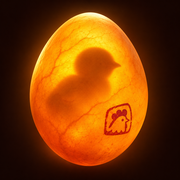
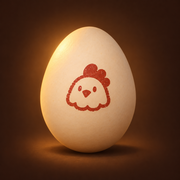
편안한 분위기로 조정: 따뜻한 램프, 알 하나, 문구 정리
- 검란(핏줄, 붉은 투과광, 속 그림자) 연출을 걷어내고 같은 구도의 따뜻한 조명 계란판으로 교체
- 방 어둠과 램프 빛을 부드러운 꿀빛으로, 부화 과정의 속 그림자 제거
- 작품을 '첫 작품' 알 하나로 줄이고 아직 밝히지 않은 작품 종류(secret) 추가
- 소개 문구에서 '혼자', '1인' 표현 제거 (한국어, 영어)
- 문의 이메일 글자 크기 축소, 로고 아이콘을 도장 찍힌 알로 교체
- 데이터 JSON 은 매번 재검증해 갱신이 바로 보이게 함

diff --git a/index.html b/index.html
@@ -4,13 +4,13 @@
 <meta charset="utf-8">
 <meta name="viewport" content="width=device-width,initial-scale=1">
 <title>꼰닭 스튜디오 | ggondark studio</title>
-<meta name="description" content="혼자 만드는 앱과 게임, 꼰닭 스튜디오(ggondark studio)의 공식 홈페이지." data-i18n-attr="content:meta.description">
+<meta name="description" content="꼰닭 스튜디오(ggondark studio)의 공식 홈페이지. 즐겁게 만드는 앱과 게임." data-i18n-attr="content:meta.description">
 <meta name="theme-color" content="#160f0a">
 <link rel="canonical" href="https://ggondark2.github.io/">
 <meta property="og:type" content="website">
 <meta property="og:site_name" content="ggondark studio">
 <meta property="og:title" content="꼰닭 스튜디오 | ggondark studio">
-<meta property="og:description" content="혼자 만드는 앱과 게임">
+<meta property="og:description" content="즐겁게 만드는 앱과 게임">
 <meta property="og:url" content="https://ggondark2.github.io/">
 <meta property="og:image" content="https://ggondark2.github.io/assets/img/og.jpg">
 <meta name="twitter:card" content="summary_large_image">
@@ -20,7 +20,7 @@
 <link rel="preconnect" href="https://fonts.gstatic.com" crossorigin>
 <link href="https://fonts.googleapis.com/css2?family=Do+Hyeon&family=Nanum+Gothic+Coding:wght@700&display=swap" rel="stylesheet">
 <link rel="stylesheet" href="https://cdn.jsdelivr.net/npm/pretendard@1.3.9/dist/web/static/pretendard.min.css">
-<link rel="stylesheet" href="assets/css/site.css?v=1104m">
+<link rel="stylesheet" href="assets/css/site.css?v=1104q">
 <script type="application/ld+json">{"@context":"https://schema.org","@type":"Organization","name":"꼰닭 스튜디오","alternateName":"ggondark studio","url":"https://ggondark2.github.io/","email":"ggondark2@gmail.com","logo":"https://ggondark2.github.io/assets/img/icon-512.png"}</script>
 </head>
 <body>
@@ -30,6 +30,7 @@
   <symbol id="i-app" viewBox="0 0 100 100"><path d="M32 8h36c6 0 10 4 10 10v64c0 6-4 10-10 10H32c-6 0-10-4-10-10V18c0-6 4-10 10-10zm-2 14v54h40V22zm14 60a6 6 0 1012 0 6 6 0 00-12 0zM36 30h12v12H36zm16 0h12v12H52zM36 46h12v12H36z"/></symbol>
   <symbol id="i-idea" viewBox="0 0 100 100"><path d="M50 10c18 0 30 13 30 30 0 11-6 19-12 25-3 3-4 6-4 9v4H36v-4c0-3-1-6-4-9-6-6-12-14-12-25 0-17 12-30 30-30zM38 84h24v6H38z"/></symbol>
   <symbol id="i-egg" viewBox="0 0 12 15"><path d="M6 0C2.7 0 0 4.6 0 8.7 0 12.2 2.7 15 6 15s6-2.8 6-6.3C12 4.6 9.3 0 6 0z"/></symbol>
+  <symbol id="i-chick" viewBox="0 0 100 100"><path d="M50 20c12 0 20 8 20 18 0 4-1 7-3 10 9 4 15 13 15 23 0 13-14 21-32 21S18 84 18 71c0-10 6-19 15-23-2-3-3-6-3-10 0-10 8-18 20-18zm-6 14a3 3 0 100 6 3 3 0 000-6zm14 4l10 3-10 3z"/></symbol>
   <symbol id="i-arrow" viewBox="0 0 24 24"><path d="M5 12h13M13 6l6 6-6 6" fill="none" stroke="currentColor" stroke-width="2.4" stroke-linecap="round" stroke-linejoin="round"/></symbol>
   <symbol id="i-copy" viewBox="0 0 24 24"><g fill="none" stroke="currentColor" stroke-width="2.2" stroke-linejoin="round"><rect x="8" y="8" width="12" height="12" rx="2"/><path d="M16 8V5a1 1 0 00-1-1H5a1 1 0 00-1 1v10a1 1 0 001 1h3"/></g></symbol>
   <symbol id="i-check" viewBox="0 0 24 24"><path d="M5 12.5l4.5 4.5L19 7" fill="none" stroke="currentColor" stroke-width="2.6" stroke-linecap="round" stroke-linejoin="round"/></symbol>
@@ -71,7 +72,7 @@
         <span class="t" data-i18n="hero.title">꼰닭 스튜디오</span>
         <span class="stamp hero-stamp" id="hero-stamp" aria-hidden="true"></span>
       </h1>
-      <p class="hero-lead" data-i18n="hero.lead">혼자 만드는 앱과 게임</p>
+      <p class="hero-lead" data-i18n="hero.lead">즐겁게 만드는 앱과 게임</p>
       <div class="hero-actions">
         <a class="btn-amber" href="#contact"><span data-i18n="hero.cta">문의하기</span><svg class="ico"><use href="#i-arrow"/></svg></a>
         <span class="temp"><svg class="mini-egg"><use href="#i-egg"/></svg><span data-i18n="hero.status">첫 작품 부화 중</span> <b>37.5°C</b></span>
@@ -86,10 +87,10 @@
         <h2 id="studio-title" class="sr-only" data-i18n="studio.title">스튜디오</h2>
         <ol class="stages">
           <li class="stage" data-stage="0"><svg class="ico"><use href="#i-idea"/></svg><span data-i18n="studio.s1">아이디어를 품고</span></li>
-          <li class="stage" data-stage="1"><svg class="ico"><use href="#i-game"/></svg><span data-i18n="studio.s2">혼자 끝까지 키워서</span></li>
+          <li class="stage" data-stage="1"><svg class="ico"><use href="#i-game"/></svg><span data-i18n="studio.s2">정성껏 키워서</span></li>
           <li class="stage" data-stage="2"><svg class="ico"><use href="#i-app"/></svg><span data-i18n="studio.s3">세상에 내놓습니다</span></li>
         </ol>
-        <p class="studio-note" data-i18n="studio.note">꼰닭 스튜디오는 앱과 게임을 기획부터 출시까지 혼자 만드는 1인 개발 스튜디오입니다.</p>
+        <p class="studio-note" data-i18n="studio.note">꼰닭 스튜디오는 앱과 게임을 기획부터 출시까지 직접 만드는 개발 스튜디오입니다.</p>
       </div>
       <div class="hatch-stage" id="hatch-stage" aria-hidden="true">
         <canvas class="fx" id="fx"></canvas>
@@ -98,7 +99,6 @@
           <div class="l-egg" id="h-egg">
             <img src="assets/img/egg-whole.webp" alt="" width="353" height="457">
             <div class="candle"></div>
-            <div class="embryo"></div>
             <svg class="crack" viewBox="0 0 353 457"><path id="h-crack" d="M14 236 L52 214 L78 248 L112 210 L140 246 L170 206 L198 244 L228 208 L256 246 L290 212 L340 232"/></svg>
           </div>
           <img class="l-bottom" id="h-bottom" src="assets/img/shell-bottom.webp" alt="" width="362" height="293">
@@ -139,11 +139,11 @@
 
 <script src="https://cdnjs.cloudflare.com/ajax/libs/gsap/3.12.5/gsap.min.js"></script>
 <script src="https://cdnjs.cloudflare.com/ajax/libs/gsap/3.12.5/ScrollTrigger.min.js"></script>
-<script src="assets/js/config.js?v=1104m"></script>
-<script src="assets/js/i18n.js?v=1104m"></script>
-<script src="assets/js/hero.js?v=1104m"></script>
-<script src="assets/js/hatch.js?v=1104m"></script>
-<script src="assets/js/works.js?v=1104m"></script>
-<script src="assets/js/main.js?v=1104m"></script>
+<script src="assets/js/config.js?v=1104q"></script>
+<script src="assets/js/i18n.js?v=1104q"></script>
+<script src="assets/js/hero.js?v=1104q"></script>
+<script src="assets/js/hatch.js?v=1104q"></script>
+<script src="assets/js/works.js?v=1104q"></script>
+<script src="assets/js/main.js?v=1104q"></script>
 </body>
 </html>

diff --git a/assets/css/site.css b/assets/css/site.css
@@ -60,15 +60,13 @@ img{display:block;max-width:100%}
   font:700 clamp(6px,.62vw,10px)/1 var(--f-stamp);letter-spacing:.06em;color:var(--stamp);mix-blend-mode:multiply;opacity:calc(.82 - var(--lit)*.55);filter:url(#ink)}
 .spot.key{cursor:pointer;transform-origin:50% 70%}
 .spot .shell{position:absolute;inset:0;border-radius:50%;background:var(--plate) var(--bg-pos)/var(--bg-size) no-repeat}
-.spot .shell.lit{background-image:var(--lit-plate);opacity:var(--lit);box-shadow:0 0 calc(var(--lit)*60px) calc(var(--lit)*10px) rgba(255,140,40,.45)}
-.spot .inside{position:absolute;inset:25%;opacity:calc(var(--lit)*1.2 - .25);filter:blur(calc(2px + (1 - var(--lit))*5px));mix-blend-mode:multiply}
-.spot .inside svg{width:100%;height:100%;fill:#5a1d05}
+.spot .shell.lit{background-image:var(--lit-plate);opacity:var(--lit);box-shadow:0 0 calc(var(--lit)*50px) calc(var(--lit)*6px) rgba(255,214,150,.35)}
 .spot .crack{position:absolute;inset:0;width:100%;height:100%;pointer-events:none;overflow:visible}
 .spot .crack path{fill:none;stroke:#3a2410;stroke-width:2.4;stroke-linecap:round;stroke-linejoin:round}
 .dark{position:absolute;inset:0;pointer-events:none;z-index:5;
-  background:radial-gradient(circle at var(--lx,70%) var(--ly,50%),rgba(22,15,10,0) 0,rgba(22,15,10,0) var(--r0,0px),rgba(22,15,10,.9) var(--r1,20px))}
+  background:radial-gradient(circle at var(--lx,70%) var(--ly,50%),rgba(30,20,12,0) 0,rgba(30,20,12,0) var(--r0,0px),rgba(30,20,12,.66) var(--r1,20px))}
 .glow{position:absolute;inset:0;pointer-events:none;z-index:6;mix-blend-mode:screen;
-  background:radial-gradient(circle at var(--lx,70%) var(--ly,50%),rgba(255,170,70,calc(.32*var(--pw,0))) 0,rgba(255,120,30,calc(.08*var(--pw,0))) 220px,transparent 380px)}
+  background:radial-gradient(circle at var(--lx,70%) var(--ly,50%),rgba(255,222,160,calc(.26*var(--pw,0))) 0,rgba(255,200,130,calc(.07*var(--pw,0))) 240px,transparent 400px)}
 .lamp-ring{position:absolute;left:0;top:0;width:150px;height:150px;margin:-75px 0 0 -75px;border-radius:50%;z-index:8;pointer-events:none;opacity:0;
   border:2px solid rgba(255,190,110,.55);box-shadow:0 0 0 7px rgba(255,190,110,.08)}
 .hero.lamp-cursor .lamp-ring{opacity:1}
@@ -111,9 +109,8 @@ img{display:block;max-width:100%}
 .nest > img{height:auto}
 .l-egg{bottom:0;height:100%;transform-origin:50% 92%}
 .l-egg > img{width:100%;height:100%}
-.l-egg .candle,.l-egg .embryo{position:absolute;inset:0;-webkit-mask:url(../img/egg-whole.webp) center/100% 100% no-repeat;mask:url(../img/egg-whole.webp) center/100% 100% no-repeat;opacity:0}
-.l-egg .candle{background:radial-gradient(ellipse at 50% 46%,#fff3c4 0,#ffbe55 28%,#f27a1d 60%,#a8360c 100%);mix-blend-mode:multiply}
-.l-egg .embryo{background:url(../img/chick.webp) 52% 62%/62% auto no-repeat;filter:brightness(0) blur(6px);mix-blend-mode:multiply}
+.l-egg .candle{position:absolute;inset:0;-webkit-mask:url(../img/egg-whole.webp) center/100% 100% no-repeat;mask:url(../img/egg-whole.webp) center/100% 100% no-repeat;opacity:0}
+.l-egg .candle{background:radial-gradient(ellipse at 42% 34%,rgba(255,252,236,.95) 0,rgba(255,226,160,.7) 45%,rgba(255,200,120,.45) 100%);mix-blend-mode:soft-light}
 .l-egg .crack{position:absolute;inset:0;width:100%;height:100%;overflow:visible}
 .l-egg .crack path{fill:none;stroke:#3a2410;stroke-width:4;stroke-linecap:round;stroke-linejoin:round}
 .l-bottom{bottom:0;width:102.5%;left:-1.2%;opacity:0;transform-origin:50% 100%}
@@ -133,12 +130,11 @@ img{display:block;max-width:100%}
 .tile{position:relative;width:100%;background:var(--plate) var(--tile-pos)/var(--tile-size) no-repeat;overflow:hidden;box-shadow:0 26px 36px -18px rgba(0,0,0,.6)}
 .tile-lit{position:absolute;inset:0;background:var(--lit-plate) var(--tile-pos)/var(--tile-size) no-repeat;opacity:0;transition:opacity .6s var(--ease-out);
   -webkit-mask:radial-gradient(circle at 50% 50%,#000 34%,transparent 62%);mask:radial-gradient(circle at 50% 50%,#000 34%,transparent 62%)}
-.tile .inside{position:absolute;inset:36%;opacity:0;filter:blur(5px);mix-blend-mode:multiply;transition:opacity .6s var(--ease-out),filter .6s var(--ease-out)}
-.tile .inside svg{width:100%;height:100%;fill:#5a1d05}
 .tile .egg-stamp{position:absolute;left:50%;top:58%;transform:translate(-50%,-50%) rotate(-6deg);font:700 clamp(10px,.9vw,13px)/1 var(--f-stamp);letter-spacing:.06em;
   color:var(--stamp);mix-blend-mode:multiply;filter:url(#ink);white-space:nowrap}
 .work:hover .tile-lit,.work:focus-visible .tile-lit{opacity:1}
-.work:hover .inside,.work:focus-visible .inside{opacity:.6;filter:blur(3px)}
+.work:hover .tile,.work:focus-visible .tile{animation:nudge .6s var(--ease-out)}
+@keyframes nudge{30%{transform:rotate(-2deg) translateY(-3px)}60%{transform:rotate(1.5deg)}100%{transform:none}}
 .work:hover .egg-stamp,.work:focus-visible .egg-stamp{filter:url(#ink) opacity(.35)}
 .work-hatched{position:absolute;inset:6% 18% 14%;display:grid;align-content:end;justify-items:center}
 .work-hatched .chick{width:70%;margin-bottom:-22%;position:relative;z-index:0}
@@ -162,7 +158,7 @@ img{display:block;max-width:100%}
 /* 문의 */
 .contact{position:relative;background:var(--amber);color:var(--amber-ink);padding:clamp(80px,14vh,160px) var(--gut);overflow:hidden}
 .contact-lead{position:relative;font:600 clamp(16px,1.4vw,21px)/1.5 var(--f-body);margin-top:14px;max-width:32em}
-.mail{position:relative;display:inline-block;font:400 clamp(34px,6.4vw,104px)/1 var(--f-display);margin-top:clamp(28px,5vh,52px);letter-spacing:-.01em;word-break:break-all;
+.mail{position:relative;display:inline-block;font:400 clamp(26px,3.8vw,60px)/1 var(--f-display);margin-top:clamp(28px,5vh,52px);letter-spacing:-.01em;word-break:break-all;
   background:linear-gradient(currentColor,currentColor) 0 100%/0 4px no-repeat;transition:background-size .5s var(--ease-out)}
 .mail:hover,.mail:focus-visible{background-size:100% 4px}
 .contact-actions{position:relative;display:flex;align-items:center;gap:12px;margin-top:clamp(24px,4vh,40px);flex-wrap:wrap}

diff --git a/assets/js/works.js b/assets/js/works.js
@@ -1,8 +1,8 @@
 // 작품 목록: data/works.json 을 읽어 그린다. 형식이 틀린 항목은 콘솔 오류를 남기고 그리지 않는다.
 window.Works = (() => {
-  const KINDS = ['game', 'app'], STATUSES = ['incubating', 'hatched'];
+  const KINDS = ['game', 'app', 'secret'], STATUSES = ['incubating', 'hatched'];
   const STORE = { googlePlay: 'i-play', appStore: 'i-apple' };
-  const ICON = { game: 'i-game', app: 'i-app' };
+  const ICON = { game: 'i-game', app: 'i-app', secret: 'i-chick' };
   let list = [];
 
   function valid(w, i) {
@@ -18,7 +18,7 @@ window.Works = (() => {
   }
 
   async function load() {
-    const res = await fetch(I18N.root + 'data/works.json');
+    const res = await fetch(I18N.root + 'data/works.json', { cache: 'no-cache' }); // 작품 갱신이 바로 보이도록 매번 재검증
     if (!res.ok) throw new Error('[works] works.json 을 불러오지 못함 (' + res.status + ')');
     const data = await res.json();
     if (data.version !== 1) throw new Error('[works] 지원하지 않는 버전: ' + data.version);
@@ -44,7 +44,7 @@ window.Works = (() => {
     const t = I18N.t, stamp = `${SITE_CONFIG.studio.founded} ${SITE_CONFIG.studio.stampPrefix} ${String(slot + 1).padStart(2, '0')}`;
     const art = w.status === 'hatched'
       ? `<div class="work-hatched">${w.icon ? `<img class="app-icon" src="${w.icon}" alt="" loading="lazy">` : '<img class="chick" src="assets/img/chick.webp" alt="" loading="lazy">'}<img class="shell" src="assets/img/shell-bottom.webp" alt="" loading="lazy"></div>`
-      : `<div class="tile-lit"></div><div class="inside"><svg><use href="#${ICON[w.kind]}"/></svg></div><span class="egg-stamp">${stamp}</span>`;
+      : `<div class="tile-lit"></div><span class="egg-stamp">${stamp}</span>`;
     const stores = Object.entries(w.stores || {}).map(([k, url]) =>
       `<a class="store" href="${url}" target="_blank" rel="noopener"><svg class="ico"><use href="#${STORE[k]}"/></svg>${t('store.' + k)}</a>`).join('');
     return `<li class="work ${w.status}" tabindex="0">

diff --git a/assets/js/hero.js b/assets/js/hero.js
@@ -2,8 +2,7 @@
 window.Hero = (() => {
   const C = window.SITE_CONFIG;
   const reduce = matchMedia('(prefers-reduced-motion: reduce)').matches;
-  const ICON = { game: 'i-game', app: 'i-app' };
-  let hero, tray, lit, dark, glow, ring, tag, spots = [], keys = [];
+    let hero, tray, lit, dark, glow, ring, tag, spots = [], keys = [];
   let lx = 0, ly = 0, tx = 0, ty = 0, idle = 0, tour = 0, power = 0, running = false, finePointer = false;
   let inv = null, fwd = null, box = { l: 0, t: 0, w: 1, h: 1 };
 
@@ -36,7 +35,7 @@ window.Hero = (() => {
         // 작품 알은 판에서 그 알만 떠 와 따로 움직인다
         const bx = 100 / p.d * 100, cx = (T.colX[i % T.cols] - T.eggR) / (T.plateW - T.eggR * 2) * 100, cy = (T.rowY[Math.floor(i / T.cols)] - T.eggR) / (T.plateH - T.eggR * 2) * 100;
         el.style.setProperty('--bg-size', `${bx}% auto`); el.style.setProperty('--bg-pos', `${cx}% ${cy}%`);
-        el.innerHTML = `<div class="shell"></div><div class="shell lit"></div><div class="inside"><svg><use href="#${ICON[w.kind]}"/></svg></div>` +
+        el.innerHTML = `<div class="shell"></div><div class="shell lit"></div>` +
           `<svg class="crack" viewBox="0 0 100 100"><path d="M10 52 L22 44 L30 56 L42 42 L52 56 L62 42 L72 54 L90 46"/></svg>`;
         el.work = w; el.tabIndex = -1;
       }
@@ -90,7 +89,7 @@ window.Hero = (() => {
     });
     if (best && bestD < best.w * .7 && power > .5) {
       tag.firstChild.textContent = best.work.code;
-      tag.lastChild.textContent = I18N.t('kind.' + best.work.kind) + ' ' + I18N.t('status.incubating');
+      tag.lastChild.textContent = best.work.name[I18N.lang] + ' ' + I18N.t('status.incubating');
       tag.style.left = (best.cx + best.w * .55) + 'px'; tag.style.top = best.cy + 'px'; tag.style.opacity = 1;
     } else tag.style.opacity = 0;
     requestAnimationFrame(tick);

diff --git a/assets/js/hatch.js b/assets/js/hatch.js
@@ -1,4 +1,4 @@
-// 부화 과정: 스크롤에 따라 검란 → 균열 → 부화. 파편 VFX는 진행도에 따라 결정적으로 그려 되감기도 자연스럽다.
+// 부화 과정: 스크롤에 따라 따뜻한 빛 → 균열 → 부화. 파편 VFX는 진행도에 따라 결정적으로 그려 되감기도 자연스럽다.
 window.Hatch = (() => {
   const C = window.SITE_CONFIG.hatch;
   const reduce = matchMedia('(prefers-reduced-motion: reduce)').matches;
@@ -123,8 +123,7 @@ window.Hatch = (() => {
     });
     setStage(0);
     // 1. 검란: 불빛이 들어오고 속에 병아리 그림자
-    tl.fromTo('#h-egg .candle', { opacity: 0 }, { opacity: 1, duration: 2 }, .3)
-      .fromTo('#h-egg .embryo', { opacity: 0 }, { opacity: .55, duration: 2 }, .8)
+    tl.fromTo('#h-egg .candle', { opacity: 0 }, { opacity: .85, duration: 2 }, .3)
       .fromTo(stageEl, { '--heat': 0 }, { '--heat': 1, duration: 2 }, .3)
       .to('#h-egg', { rotate: 2, duration: .4, yoyo: true, repeat: 3, ease: 'sine.inOut' }, 1.2)
     // 2. 균열: 들썩임이 커지며 금이 간다

diff --git a/privacy/index.html b/privacy/index.html
@@ -13,7 +13,7 @@
 <link rel="preconnect" href="https://fonts.gstatic.com" crossorigin>
 <link href="https://fonts.googleapis.com/css2?family=Do+Hyeon&family=Nanum+Gothic+Coding:wght@700&display=swap" rel="stylesheet">
 <link rel="stylesheet" href="https://cdn.jsdelivr.net/npm/pretendard@1.3.9/dist/web/static/pretendard.min.css">
-<link rel="stylesheet" href="../assets/css/site.css?v=1104m">
+<link rel="stylesheet" href="../assets/css/site.css?v=1104q">
 <style>html[lang="ko"] [data-only="en"],html[lang="en"] [data-only="ko"]{display:none}</style>
 </head>
 <body data-title-key="meta.privacyTitle">
@@ -139,7 +139,7 @@
   <a href="mailto:ggondark2@gmail.com">ggondark2@gmail.com</a>
   <small>&copy; 2026 ggondark studio</small>
 </footer>
-<script src="../assets/js/config.js?v=1104m"></script>
-<script src="../assets/js/i18n.js?v=1104m"></script>
+<script src="../assets/js/config.js?v=1104q"></script>
+<script src="../assets/js/i18n.js?v=1104q"></script>
 </body>
 </html>

diff --git a/404.html b/404.html
@@ -11,7 +11,7 @@
 <link rel="preconnect" href="https://fonts.gstatic.com" crossorigin>
 <link href="https://fonts.googleapis.com/css2?family=Do+Hyeon&family=Nanum+Gothic+Coding:wght@700&display=swap" rel="stylesheet">
 <link rel="stylesheet" href="https://cdn.jsdelivr.net/npm/pretendard@1.3.9/dist/web/static/pretendard.min.css">
-<link rel="stylesheet" href="/assets/css/site.css?v=1104m">
+<link rel="stylesheet" href="/assets/css/site.css?v=1104q">
 </head>
 <body data-title-key="meta.lostTitle">
 <main class="lost">
@@ -22,7 +22,7 @@
     <a class="btn-amber" href="/"><span data-i18n="nav.home">홈으로</span></a>
   </div>
 </main>
-<script src="/assets/js/config.js?v=1104m"></script>
-<script src="/assets/js/i18n.js?v=1104m"></script>
+<script src="/assets/js/config.js?v=1104q"></script>
+<script src="/assets/js/i18n.js?v=1104q"></script>
 </body>
 </html>

diff --git a/assets/js/config.js b/assets/js/config.js
@@ -13,7 +13,7 @@ window.SITE_CONFIG = {
   // 첫 화면 계란판 (실사 판 이미지 위에 도장과 작품 알을 겹친다)
   tray: {
     plate: 'assets/img/tray.webp',          // 평소 계란판 사진
-    litPlate: 'assets/img/tray-candled.webp', // 같은 구도로 아래에서 빛을 비춘 사진 (램프 안쪽에만 보인다)
+    litPlate: 'assets/img/tray-warm.webp',  // 같은 구도로 따뜻한 램프를 비춘 사진 (램프 안쪽에만 보인다)
     plateW: 1536, plateH: 1024,              // 판 이미지 원본 크기 (px)
     cols: 6, rows: 4,                        // 칸 수
     colX: [137, 389, 642, 895, 1147, 1400],  // 열별 알 중심 x (원본 px)

diff --git a/assets/js/i18n.js b/assets/js/i18n.js
@@ -18,7 +18,7 @@ window.I18N = (() => {
 
   async function load(l) {
     if (dicts[l]) return dicts[l];
-    const res = await fetch(ROOT + 'data/i18n/' + l + '.json');
+    const res = await fetch(ROOT + 'data/i18n/' + l + '.json', { cache: 'no-cache' });
     if (!res.ok) throw new Error('[i18n] 사전을 불러오지 못함: ' + l + ' (' + res.status + ')');
     return (dicts[l] = await res.json());
   }

diff --git a/DESIGN.md b/DESIGN.md
@@ -1,6 +1,6 @@
 ---
 name: 꼰닭 스튜디오 (ggondark studio)
-description: 어둑한 부화실에서 검란 램프로 계란판을 비추는 1인 앱 게임 스튜디오 홈페이지
+description: 따뜻한 램프로 계란판을 비추는 앱 게임 스튜디오 홈페이지
 colors:
   amber: "#ffb347"
   amber-ink: "#2b1606"
@@ -126,7 +126,7 @@ components:
 
 ## Overview
 
-**Creative North Star: "부화실의 검란 램프"**
+**Creative North Star: "부화실의 따뜻한 램프"**
 
 불 꺼진 부화실에서 호박색 램프 하나가 펄프 계란판을 훑는다. 빛이 닿은 알만 속을 드러내고, 나머지는 어둠과 펄프 결 속에 가라앉는다. 사이트 전체가 이 하나의 장면에서 나온다. 바탕은 짙은 갈색 방(`room`), 재질은 실사 사진 판(계란판, 알, 껍데기, 병아리), 빛은 호박색(`amber`), 표식은 붉은 난각 도장(`stamp`)이다.
 
@@ -144,7 +144,7 @@ components:
 어두운 갈색 방, 회갈색 펄프, 한 가지 호박색 빛, 한 가지 붉은 도장색으로 이루어진 따뜻한 저채도 팔레트.
 
 ### Primary
-- **검란 호박** (`amber`): 램프 빛 그 자체. 주 버튼, 언어 토글 선택, 포커스 링(3px), 메뉴 밑줄, 상태 문구, 문의 구역 전체 바탕. 빛이 아닌 곳에 쓰지 않는다.
+- **램프 호박** (`amber`): 램프 빛 그 자체. 주 버튼, 언어 토글 선택, 포커스 링(3px), 메뉴 밑줄, 상태 문구, 문의 구역 전체 바탕. 빛이 아닌 곳에 쓰지 않는다.
 - **호박 속 그을음** (`amber-ink`): 호박 바탕 위의 글자와 잉크 버튼. 호박과 짝으로만 쓴다.
 
 ### Secondary
@@ -241,20 +241,20 @@ components:
 ### Stamp (난각 도장)
 알 위에 찍힌 코드(예: "1102 GGD 09"). 독립형은 2px 테두리 4px 모서리, `stamp-hi`. 알 위에서는 테두리 없이 `stamp` + multiply, 칸마다 약간 회전. 등장은 scale 2.4→1, .35s `power4.in`(도장을 내리찍는 동작).
 
-### Lamp (검란 램프)
-커서를 따라가는 빛(follow .09). 투명 반경 90px, 어둠 반경 330px. 150px 고리(2px rgba(255,190,110,.55))가 커서를 대신한다. 켜질 때 네 번 깜빡인 뒤 .6s로 안정. 2.2초 멈추면 작품 알을 3.2초씩 순서대로 비춘다. 램프 안쪽은 같은 구도의 검란 사진(`tray-candled.webp`)을 마스크로 드러내고, 작품 알 위에는 태그(코드 + 이름)가 뜬다.
+### Lamp (따뜻한 램프)
+커서를 따라가는 빛(follow .09). 투명 반경 90px, 어둠 반경 330px. 150px 고리(2px rgba(255,190,110,.55))가 커서를 대신한다. 켜질 때 네 번 깜빡인 뒤 .6s로 안정. 2.2초 멈추면 작품 알을 3.2초씩 순서대로 비춘다. 램프 안쪽은 같은 구도의 따뜻한 조명 사진(`tray-warm.webp`)을 마스크로 드러내고, 작품 알 위에는 태그(코드 + 이름)가 뜬다. 알 속을 들여다보는 표현(핏줄, 붉은 투과광, 속 그림자)은 쓰지 않는다.
 
 ### Tray Tile (작품 칸)
-계란판 사진의 한 칸을 잘라 쓴 타일(`--tile-pos`, `--tile-size`). 호버나 포커스 시 같은 칸의 검란 사진이 원형 마스크로 켜지고(.6s), 속 아이콘이 흐릿하게 보이며 도장은 옅어진다. 출시작은 병아리 + 아랫껍데기 + 앱 아이콘 + 스토어 배지. 다음 자리는 빈 칸과 흐린 제목. 등장은 ±6도 기울어진 채 60px 아래에서 1s `expo.out`, .1s 간격.
+계란판 사진의 한 칸을 잘라 쓴 타일(`--tile-pos`, `--tile-size`). 호버나 포커스 시 같은 칸의 따뜻한 조명 사진이 원형 마스크로 켜지고(.6s) 칸이 살짝 흔들리며, 도장은 옅어진다. 출시작은 병아리 + 아랫껍데기 + 앱 아이콘 + 스토어 배지. 다음 자리는 빈 칸과 흐린 제목. 등장은 ±6도 기울어진 채 60px 아래에서 1s `expo.out`, .1s 간격.
 
 ### Hatch Sequence (부화 연출)
-스크롤 진행도에 묶인 타임라인: 검란(빛이 알 속을 채움, 배아 실루엣) → 흔들림 → 균열선 그리기 → 파열 VFX → 병아리 등장(squash 후 `back.out(3)`) → 껍데기 퇴장. 파열은 코어 섬광, 충격 고리, 실제 껍데기 사진을 오린 파편, 병아리 사진에서 뜬 솜털, 바닥 먼지 다섯 층이며 고정 시드로 되감아도 같은 모양이다.
+스크롤 진행도에 묶인 타임라인: 따뜻한 빛(알 겉면이 꿀빛으로 밝아짐) → 흔들림 → 균열선 그리기 → 파열 VFX → 병아리 등장(squash 후 `back.out(3)`) → 껍데기 퇴장. 파열은 코어 섬광, 충격 고리, 실제 껍데기 사진을 오린 파편, 병아리 사진에서 뜬 솜털, 바닥 먼지 다섯 층이며 고정 시드로 되감아도 같은 모양이다.
 
 ## Do's and Don'ts
 
 ### Do:
 - **Do** 재질(계란판, 알, 껍데기, 병아리, 펄프 칸)은 `codex-imagegen` 실사 사진 판으로 만들고, 레이어별로 나눠 `assets/img/PROMPTS.md`와 `*.webp.json`에 출처를 남긴다.
-- **Do** 빛 상태가 다른 장면은 같은 구도의 짝 사진(`tray.webp` / `tray-candled.webp`)을 만들어 마스크로 전환한다.
+- **Do** 빛 상태가 다른 장면은 같은 구도의 짝 사진(`tray.webp` / `tray-warm.webp`)을 만들어 마스크로 전환한다.
 - **Do** 조정 가능한 연출 값(램프 반경, 속도, 등장 시점, 들썩임 간격, 파편 수, 계란판 칸 좌표와 기울기)은 `assets/js/config.js`의 `SITE_CONFIG`에 한글 주석과 함께 둔다.
 - **Do** 화면 문구는 `data/i18n/{ko,en}.json` 키와 `data-i18n`, `data-i18n-attr`로 넣고, 작품 정보는 `data/works.json`(version 필드 포함)에서만 읽는다.
 - **Do** 누락된 데이터, 번역, 이미지는 콘솔 오류나 throw로 드러낸다.

diff --git a/assets/img/PROMPTS.md b/assets/img/PROMPTS.md
@@ -8,12 +8,13 @@ codex-imagegen (gpt-6.1-sol, high) 으로 생성. 원본과 크로마 키 중간
 > Game studio website animation asset sheet. Four separate objects in one row with very wide empty gaps between them, all the same scale, same soft warm studio light from upper left, realistic high-detail product photography style: (1) an intact smooth off-white chicken egg standing upright, (2) the bottom half of the same egg shell, cracked open with a sharp jagged zigzag top edge, empty inside, (3) a fluffy bright yellow baby chick standing, facing the viewer, small orange beak, black eyes, cute and alert, (4) the top cap of the same egg shell with a jagged zigzag bottom edge, upright. Front view, each object fully visible and not touching anything. Plain flat green #00FF00 background, no shadow on the background, no ground plane. No text, no watermark.
 
 ## icon → favicon-48 / apple-touch-icon / icon-512
-> Square app icon / favicon artwork for an indie game studio named after a chicken. A single chicken egg seen slightly from above, lit from behind by a warm candling lamp so the shell glows translucent amber and orange, with the soft dark silhouette of a small chick visible inside. The egg sits centered on a dark warm brown background (#160f0a) with a gentle amber halo. A small red ink stamp mark printed on the shell, abstract, no readable letters. Bold, simple, readable at 32px, rich color. No text, no watermark, no border.
+> Square app icon / favicon artwork for a cute, cozy indie game studio named after a chicken. A single smooth creamy off-white chicken egg standing upright, centered, softly lit by warm golden afternoon light, opaque shell (nothing visible inside, no veins, no translucency, no orange glow). A small cute red ink stamp mark of a simple chicken head printed on the shell. Background: warm dark brown (#2a1d12) with a gentle soft warm halo behind the egg. Friendly, simple, readable at 32px. No text, no letters, no watermark, no border.
 
 ## og.jpg
 실제 첫 화면(1200x630)을 캡처한 것.
 
-## tray / tray-candled
+## tray / tray-warm
+
 > Website hero background plate, landscape 3:2. Straight top-down orthographic photograph of a large gray-beige molded paper pulp egg tray filling the entire frame edge to edge, a regular grid of 6 columns by 4 rows of round cups with the little pyramid posts between them. Most cups hold a chicken egg seen from directly above (oval shapes): mostly off-white eggs, about one in five light brown. Exactly three cups are empty: row 4 column 3, row 4 column 6, and row 1 column 5, showing the bare pulp cup bottom. Soft even warm light from the upper left, subtle real shadows inside the cups and under each egg, visible fibrous pulp texture. Realistic, high detail, no text, no stamps, no watermark, no props, no hands.
 
-> (edit of tray.webp) Edit this photo. Keep EXACTLY the same framing, tray, cup grid, egg positions, egg sizes and the three empty cups, pixel-aligned with the input. Change only the lighting: the room is dark and every egg is lit from underneath like egg candling, so each shell glows translucent warm amber and orange, brightest in the middle, deeper red-orange toward the rim, with faint darker branching veins and a slightly paler air cell near one side; brown eggs glow a deeper red-orange. The pulp tray falls into deep warm shadow, nearly black brown, with only a faint rim light near the glowing eggs. Empty cups stay empty and dark. Realistic photograph, no text, no watermark.
+> (edit of tray.webp) Edit this photo. Keep EXACTLY the same framing, tray, cup grid, egg positions, egg sizes and the three empty cups, pixel-aligned with the input. Change only the lighting to a cozy, cute, comforting mood: a soft warm golden lamp gently lights the tray from above like a sunny afternoon, eggs look clean, smooth and creamy with a soft warm honey-colored glow and gentle highlights. The shells stay opaque: absolutely no translucency, no veins, no air cells, nothing visible inside the eggs, no red or infrared tint. The pulp tray is warm beige with soft shadows. Friendly and calm, realistic photograph, no text, no watermark.

diff --git a/PRODUCT.md b/PRODUCT.md
@@ -21,7 +21,7 @@ delegated: 정적 HTML/CSS/JS (빌드 도구 없음). GitHub Pages 사용자 사
 
 ## Positioning
 
-혼자 만드는 앱·게임 스튜디오. 이름의 "닭"이 정체성의 일부다.
+앱과 게임을 만드는 스튜디오. 이름의 "닭"이 정체성의 일부다.
 
 ## Capabilities and Constraints
 
@@ -35,6 +35,8 @@ delegated: 정적 HTML/CSS/JS (빌드 도구 없음). GitHub Pages 사용자 사
 
 - 상호: 꼰닭 스튜디오 / ggondark studio (사업자등록 2026-11-03, 업종: 모바일·온라인 게임 및 응용 소프트웨어 개발·공급)
 - 사용자 요청: 모션그래픽이 매우 멋있고 높은 퀄리티일 것.
+- 소개 문구에 "혼자", "1인" 표현을 쓰지 않는다.
+- 분위기는 귀엽고 편안하게. 알 속을 들여다보는 연출(핏줄, 적외선 같은 붉은 투과광, 속 그림자)은 쓰지 않는다.
 
 ## Evidence on Hand
 
